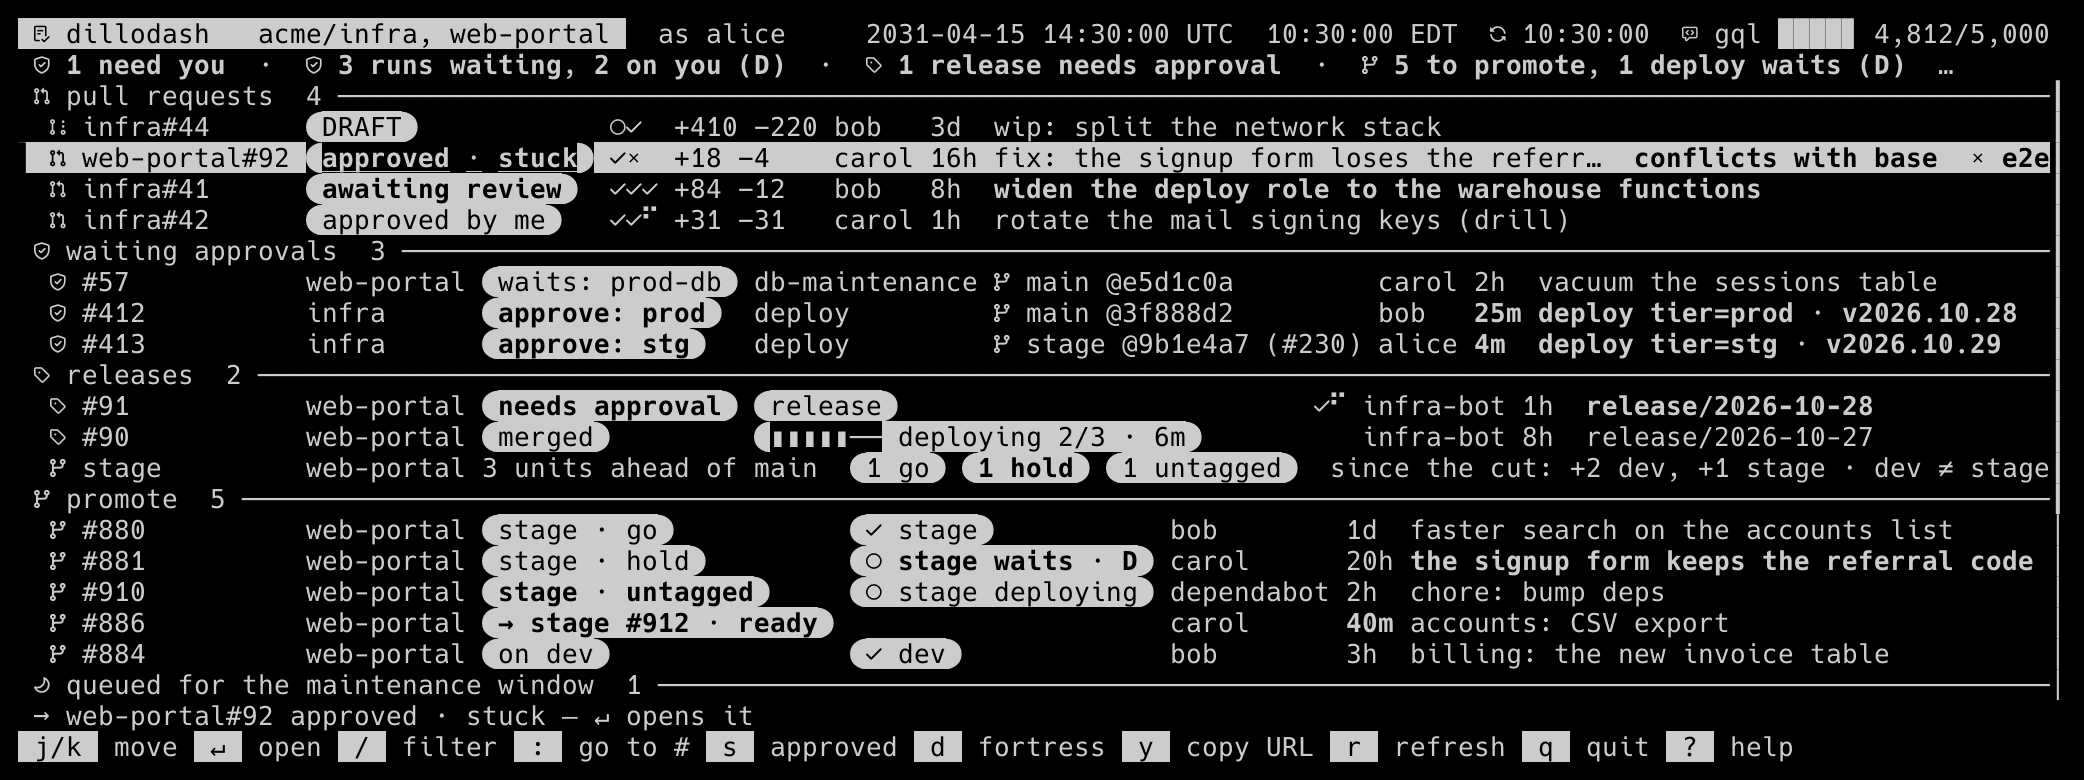
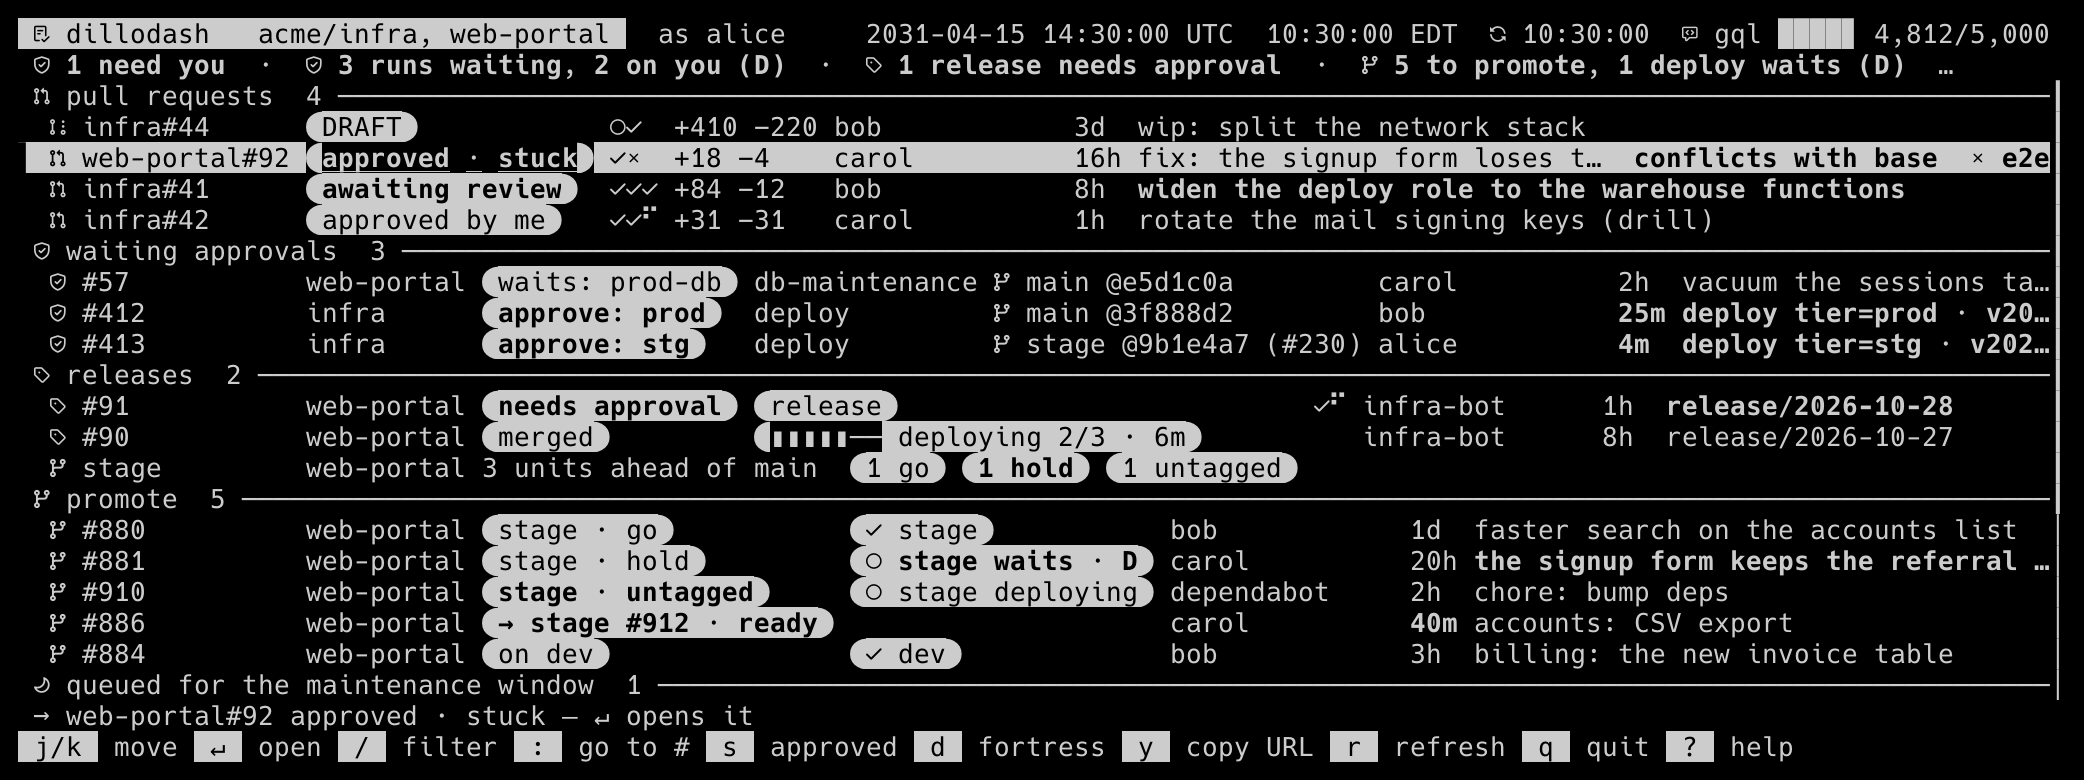
2.5.0: changelog, a lease in the demo, the gallery
The changelog section for 2.5.0. The demo's portal release is leased,
so the stage row shows its holder, and the gallery is re-rendered for
that, the shared author column and the one-gate night.

Closes #101

diff --git a/internal/demo/demo.go b/internal/demo/demo.go
@@ -127,6 +127,7 @@ func Config() *config.Config {
 	rp.Repos = []model.Repo{Repos[1]}
 	rp.Org = "acme"
 	rp.ApprovalQueuesForWindow = true
+	rp.LeaseLabel = "release-lease" // carol is cutting the portal's release
 	cfg.ReleasePR = rp
 	wr := config.DefaultWaitingRuns()
 	wr.Repos = Repos
@@ -336,7 +337,12 @@ func Client() *fake.Client {
 	manifest.Body = fmt.Sprintf("Tonight's window.\n\n<!-- window-manifest:begin\n{\"night\": %q, \"phase\": \"open\", \"attendees\": [\"carol\"], \"items\": [{\"id\": \"#43\", \"repo\": \"infra\", \"pr\": 43, \"flag\": \"scheduled\", \"revertible\": true, \"start_utc\": %q, \"release_by_utc\": %q, \"status\": \"\", \"reasons\": []}]}\nwindow-manifest:end -->", nightDate, start.Add(4*time.Minute).Format(time.RFC3339), start.Add(14*time.Minute).Format(time.RFC3339))
 	manifest.Comments.Nodes = []model.Comment{bot("@carol is attending the night of "+nightDate+".", 3*time.Hour)}
 	manifest.Comments.TotalCount = 1
-	gh.Labelled = map[model.Repo]map[string][]*model.Issue{infra: {"window-manifest": {manifest}}}
+	// who is cutting which release: the issue whatever takes the lease
+	// keeps, with its machine block
+	lease := &model.Issue{Repo: infra, Number: 31, Title: "Release leases", State: "OPEN", CreatedAt: at(50 * time.Hour), UpdatedAt: at(52 * time.Minute), Author: actor("infra-bot")}
+	lease.Body = fmt.Sprintf("Who is cutting which release.\n\n<!-- release-lease:begin\n{\"leases\": [{\"repo\": \"web-portal\", \"holder\": \"carol\", \"since\": %q, \"until\": %q}]}\nrelease-lease:end -->",
+		at(52*time.Minute).UTC().Format(time.RFC3339), at(-11*time.Hour).UTC().Format(time.RFC3339))
+	gh.Labelled = map[model.Repo]map[string][]*model.Issue{infra: {"window-manifest": {manifest}, "release-lease": {lease}}}
 	infraIssues := append([]*model.Issue{manifest}, issues[:2]...)
 	gh.Open[infra] = ghapi.ListResult{PRs: infraPRs, Issues: infraIssues}
 	gh.Issues[manifest.Ident()] = manifest

diff --git a/CHANGELOG.md b/CHANGELOG.md
@@ -1,5 +1,61 @@
 # Changelog
 
+## [2.5.0] — 2026-11-17
+
+**Nothing you have to remember.** A review request shows in whichever
+repo it is, a blocked merge says what it waits for, and the stage row
+names who is running the release.
+
+### Added
+
+- **Review requests from a whole organization.** `[reviews]
+  requested_orgs = ["acme"]` runs the three review-request searches over
+  the organization, so a PR that asks for you shows without its repo
+  being listed. Repos read in full are left out, every reference then
+  carries its repo, `:` takes a repo as its row shows it, and `--repo`
+  drops the organizations with the other lists. ([#97], [#103])
+- **A blocked merge says what it waits for.** The stuck chip, `M` and
+  the promotion merge read the base branch's rules and name the required
+  check that failed, still runs or never reported, or the review that is
+  owed: `blocked: required check "build" hasn't reported`, `needs a code
+  owner's review`, `changes requested by carol`. A review is named only
+  when GitHub says one is owed (or, where the branch gives no verdict,
+  when nobody approved and every required check is in); a check is
+  called unreported only when the whole check list was read; two runs of
+  one check that disagree are left out. Rules that can't be read leave
+  the general text. ([#98], [#104])
+- **Who is running the release.** With `[workflows.release_pr]
+  lease_label`, an open issue carrying that label can say who is cutting
+  which repo's release. The stage row's tail starts `lease: carol 42m`,
+  `P` names the holder before merging into that repo's staging branch as
+  anyone else, and with no release open yet the counts read `since the
+  lease`. Broken entries are skipped with a warning; nothing is blocked.
+  ([#99], [#105])
+
+### Changed
+
+- **One author column width for every section**, set by the widest
+  author or run actor on screen. ([#100], [#107])
+- **The demo night has one environment people approve**: production's
+  migration. Nothing below production waits in it. ([#101], [#108])
+- **Merge methods.** A repo spelled twice in `[merge] methods` is an
+  error; a rebase into the promote workflow's staging branch warns (the
+  unit's number is then on no commit); `P` falls back to the same method
+  as `M`. ([#102], [#106])
+
+[#97]: https://github.com/solcyber/gh-dillodash/issues/97
+[#98]: https://github.com/solcyber/gh-dillodash/issues/98
+[#99]: https://github.com/solcyber/gh-dillodash/issues/99
+[#100]: https://github.com/solcyber/gh-dillodash/issues/100
+[#101]: https://github.com/solcyber/gh-dillodash/issues/101
+[#102]: https://github.com/solcyber/gh-dillodash/issues/102
+[#103]: https://github.com/solcyber/gh-dillodash/pull/103
+[#104]: https://github.com/solcyber/gh-dillodash/pull/104
+[#105]: https://github.com/solcyber/gh-dillodash/pull/105
+[#106]: https://github.com/solcyber/gh-dillodash/pull/106
+[#107]: https://github.com/solcyber/gh-dillodash/pull/107
+[#108]: https://github.com/solcyber/gh-dillodash/pull/108
+
 ## [2.4.0] — 2026-11-17
 
 **Who has to act.** For teams whose branch rules ask for a review only
@@ -1219,6 +1275,7 @@ dashboard, as a GitHub CLI extension.
 - Fortress mode, the splash, wipes, confetti, the release launch, and Amos.
 - The bundled Hack Nerd Font Mono and `font install`.
 
+[2.5.0]: https://github.com/solcyber/gh-dillodash/compare/v2.4.0...v2.5.0
 [2.4.0]: https://github.com/solcyber/gh-dillodash/compare/v2.3.0...v2.4.0
 [2.3.0]: https://github.com/solcyber/gh-dillodash/compare/v2.2.0...v2.3.0
 [2.2.0]: https://github.com/solcyber/gh-dillodash/compare/v2.1.0...v2.2.0
